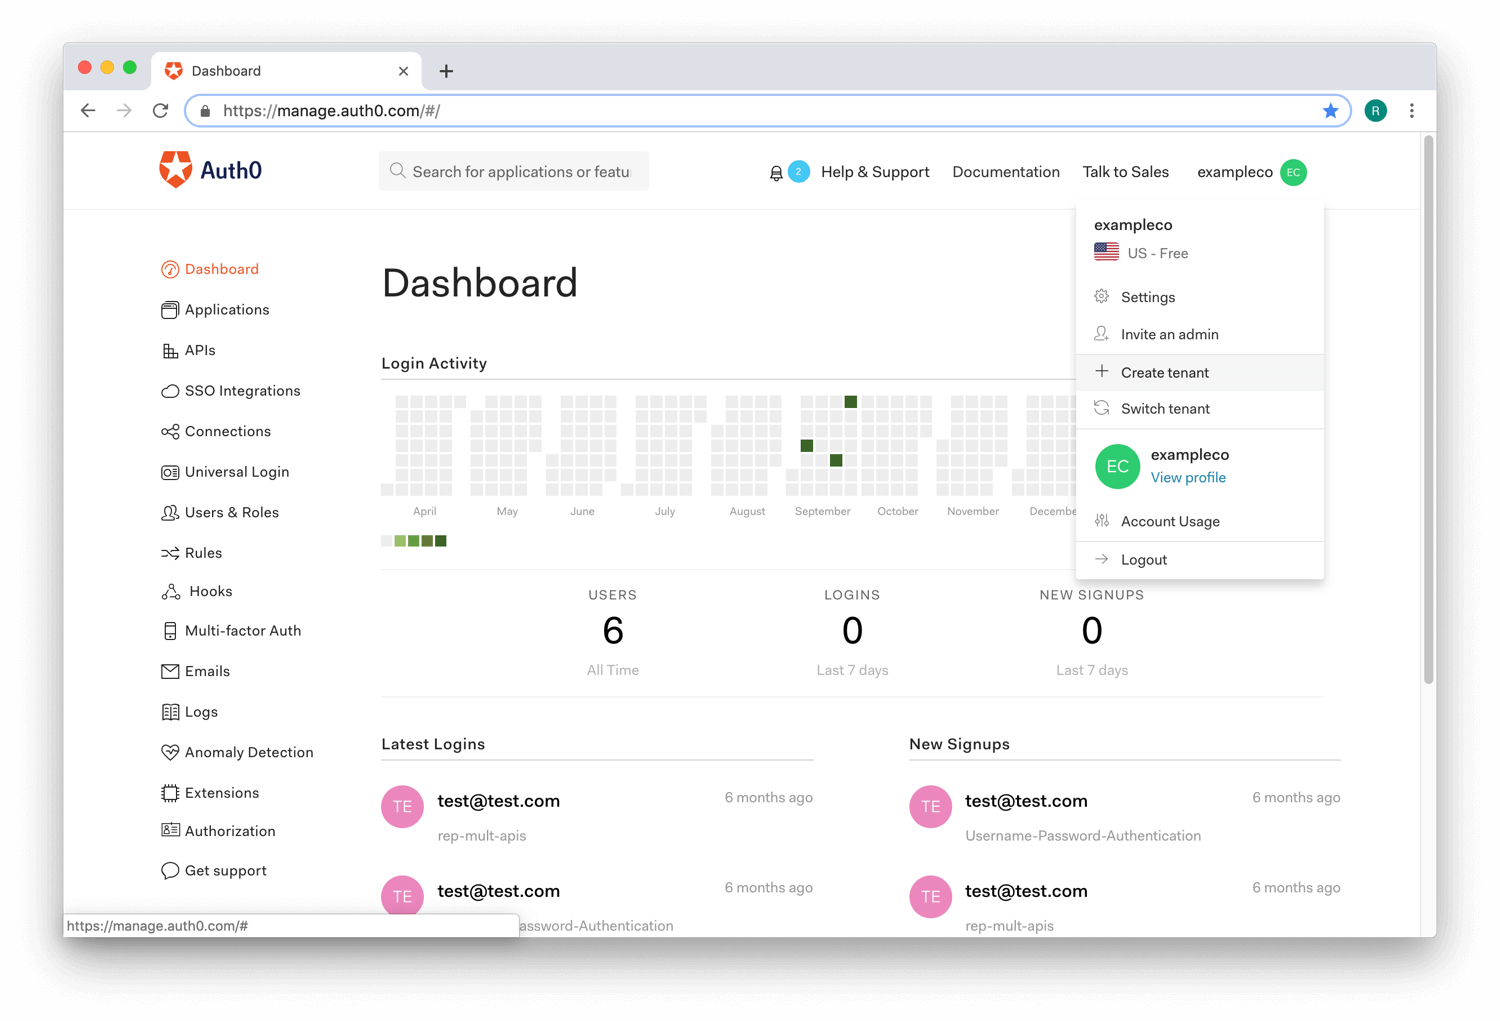
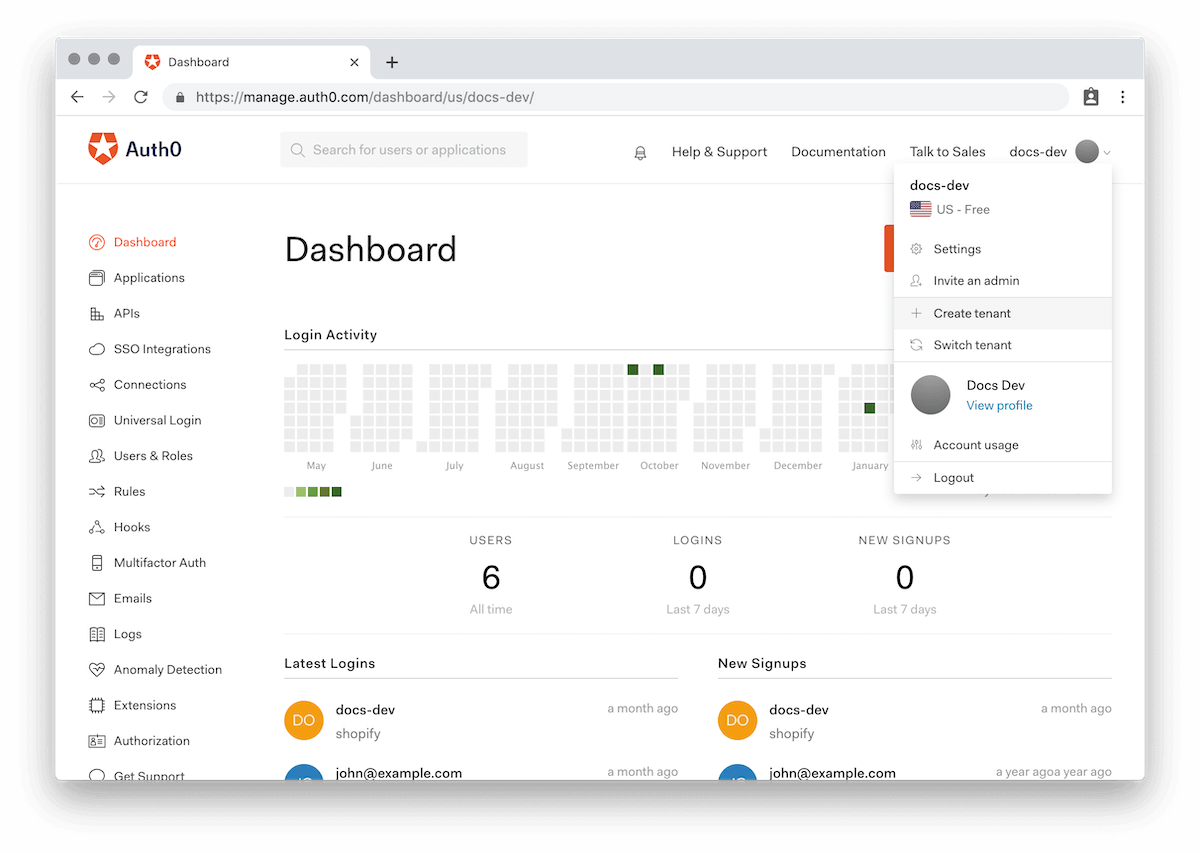
Update instructions on creating tenants

diff --git a/articles/connections/guides/create-multiple-tenants.md b/articles/connections/guides/create-multiple-tenants.md
@@ -16,6 +16,6 @@ This guide will show you how to create an additional tenant using Auth0's Dashbo
 
 ![Create New Tenant](/media/articles/connections/dashboard-create-tenant.png)
 
-2. Enter your desired domain name, select a region, agree to the terms of service and privacy policies, and click **Create**.
+2. Enter your desired domain name, select a region, and click **Create**.
 
 ![Save New Tenant](/media/articles/connections/tenant-create.png)
